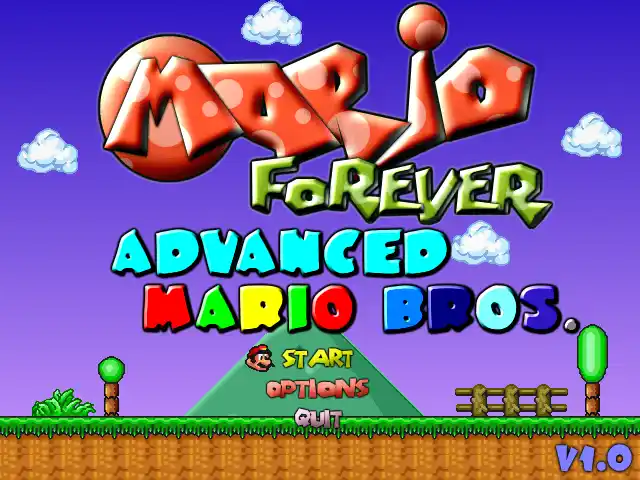
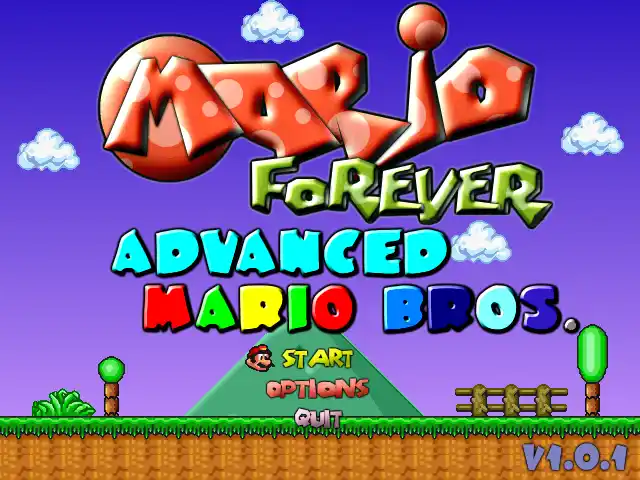
chore(data): Add MF Advanced Mario Bros. v1.0.1

diff --git a/public/data/mf-games/Mario Forever Advanced Mario Bros/description.md b/public/data/mf-games/Mario Forever Advanced Mario Bros/description.md
@@ -26,15 +26,24 @@
 -   **Freestyle:** You can select any level you'd like to play, even if you haven't completed Story Mode. Stuck in a level for too long? You have the option to skip that level. "Single Level Mode" allows you to play only a specific level without having to go through the rest of the world.
 -   **Buffed Powerups:** Beetroots are far more convenient here in comparison to the original game. You can shoot up to four beetroots (compared to the usual two), and they can kill some indestructible enemies. Boomerangs are present, and you can shoot up to four of them as well. They can kill nearly all indestructible enemies.
 
-# [Download Link](https://www.mediafire.com/file/ckuuc91slhhhf3b/Mario_Forever_Advanced_Mario_Bros._v1.0.zip/file)
+# [Download Link (v1.0.1)](https://www.mediafire.com/file/blbzf5jnd2wojai/Mario+Forever+Advanced+Mario+Bros.+v1.0.1.zip/file)
 
 _If you encounter any bugs or have any suggestions, feel free to let me know so that they can be considered as soon as possible._
 
 # **Changelog**
 
-## **v1.0 (Latest)**
+## **v1.0.1 (Latest)**
+
+Released on March 29, 2026.
+
+### Patches
+
+-   Fixed a bug where proceeding to World 6 right after World 5-A lands you directly to the last level.
+
+## **v1.0**
 
 Released on March 28, 2026.
+[**Download**](https://www.mediafire.com/file/ckuuc91slhhhf3b/Mario_Forever_Advanced_Mario_Bros._v1.0.zip/file)
 
 ### Changes
 
@@ -73,7 +82,7 @@ Released on March 28, 2026.
 ## **v0.8 Demo**
 
 Released on December 26, 2025.
-**[Download](https://file.marioforever.net/mario-forever/games/international-fangames/AppliconReal/Mario%20Forever%20Advanced%20Mario%20Bros.%200.8%20Demo.zip)**
+**[Download](https://file.marioforever.net/mario-forever/games/international-fangames/AppliconReal/old-versions/Mario%20Forever%20Advanced%20Mario%20Bros.%20v0.8%20Demo.zip)**
 
 ### Changes
 
